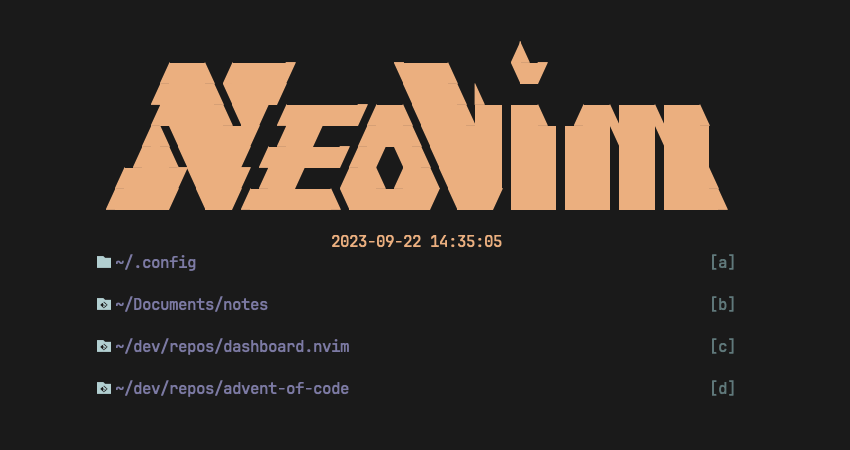
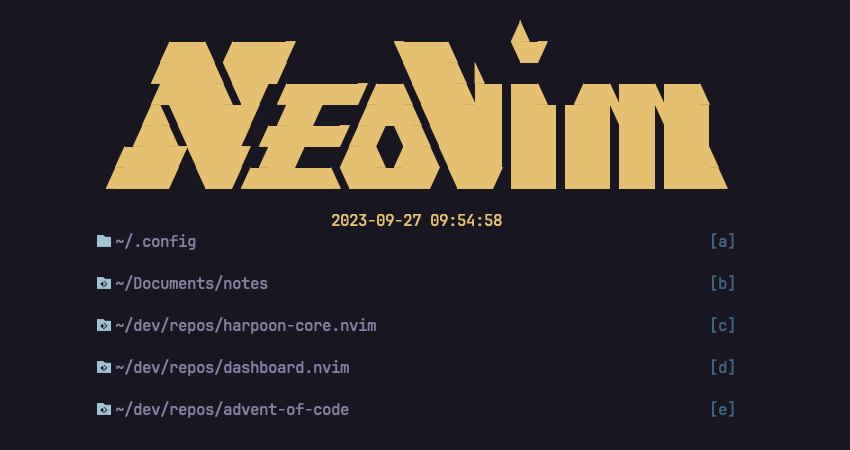
Update screenshots

Changed region(s): [[0.1224, 0.0622, 0.8565, 0.56], [0.0918, 0.5289, 0.4588, 0.9333], [0.8259, 0.5289, 0.8871, 0.9333]]

diff --git a/README.md b/README.md
@@ -73,6 +73,7 @@ For example using [MaximilianLloyd/ascii.nvim](https://github.com/MaximilianLloy
             directories = {
                 '~/.config',
                 '~/Documents/notes',
+                '~/dev/repos/harpoon-core.nvim',
                 '~/dev/repos/dashboard.nvim',
                 '~/dev/repos/advent-of-code',
             },
@@ -113,6 +114,7 @@ This will build off of the `header` option so the difference in screenshots is m
             directories = {
                 '~/.config',
                 '~/Documents/notes',
+                '~/dev/repos/harpoon-core.nvim',
                 '~/dev/repos/dashboard.nvim',
                 '~/dev/repos/advent-of-code',
             },
